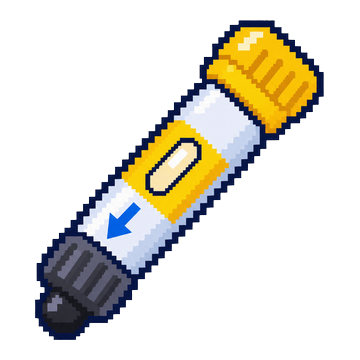
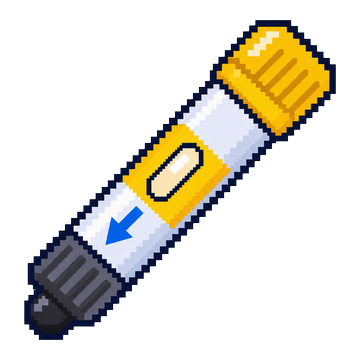
자가주사기 그림 다시 교체: 곧은 젝스트 형태 (v209)
Claude-Session: https://claude.ai/code/session_013gDdTYpfD9BZ2ma2UiLbLm

Changed region(s): [[0.0611, 0.0306, 0.9472, 0.9472], [0.3972, 0.6417, 0.4278, 0.6722], [0.3667, 0.6722, 0.3972, 0.7028]]

diff --git a/index.html b/index.html
@@ -17,13 +17,13 @@ if (/github\.io$/i.test(location.hostname)) location.replace('https://sense2026-
 <link rel="preconnect" href="https://fonts.googleapis.com">
 <link rel="preconnect" href="https://fonts.gstatic.com" crossorigin>
 <link rel="stylesheet" href="https://fonts.googleapis.com/css2?family=Jua&family=Gowun+Dodum&display=swap">
-<link rel="stylesheet" href="./css/style.css?v=v208-jext">
-<link rel="stylesheet" href="./css/lab.css?v=v208-jext">
-<link rel="stylesheet" href="./css/theme.css?v=v208-jext">
-<link rel="stylesheet" href="./css/teacher.css?v=v208-jext">
+<link rel="stylesheet" href="./css/style.css?v=v209-jext2">
+<link rel="stylesheet" href="./css/lab.css?v=v209-jext2">
+<link rel="stylesheet" href="./css/theme.css?v=v209-jext2">
+<link rel="stylesheet" href="./css/teacher.css?v=v209-jext2">
 <script>
 /* 11/12: 이 기기에 예전 화면 파일이 저장돼 있으면(버전이 다르면) 저장본을 지우고 한 번만 새로 열어요 */
-window.APP_V = 'v208-jext';
+window.APP_V = 'v209-jext2';
 window.addEventListener('load', function () {
   if (window.JS_V === window.APP_V) return;
   try { if (sessionStorage.getItem('appVfix') === window.APP_V) return; sessionStorage.setItem('appVfix', window.APP_V); } catch (e) { return; }
@@ -42,16 +42,16 @@ window.addEventListener('load', function () {
 
   <noscript>이 교육도구는 자바스크립트가 필요해요. 브라우저 설정을 확인해 주세요.</noscript>
 
-  <script src="./data/rules.js?v=v208-jext"></script>
-  <script src="./data/holidays.js?v=v208-jext"></script>
-  <script src="./data/lab-items.js?v=v208-jext"></script>
-  <script src="./js/qr.js?v=v208-jext"></script>
-  <script src="./js/sfx.js?v=v208-jext"></script>
-  <script src="./js/core.js?v=v208-jext"></script>
-  <script src="./js/card.js?v=v208-jext"></script>
-  <script src="./js/anim.js?v=v208-jext"></script>
-  <script src="./js/lab.js?v=v208-jext"></script>
-  <script src="./js/diary.js?v=v208-jext"></script>
-  <script src="./js/app.js?v=v208-jext"></script>
+  <script src="./data/rules.js?v=v209-jext2"></script>
+  <script src="./data/holidays.js?v=v209-jext2"></script>
+  <script src="./data/lab-items.js?v=v209-jext2"></script>
+  <script src="./js/qr.js?v=v209-jext2"></script>
+  <script src="./js/sfx.js?v=v209-jext2"></script>
+  <script src="./js/core.js?v=v209-jext2"></script>
+  <script src="./js/card.js?v=v209-jext2"></script>
+  <script src="./js/anim.js?v=v209-jext2"></script>
+  <script src="./js/lab.js?v=v209-jext2"></script>
+  <script src="./js/diary.js?v=v209-jext2"></script>
+  <script src="./js/app.js?v=v209-jext2"></script>
 </body>
 </html>

diff --git a/sw.js b/sw.js
@@ -2,7 +2,7 @@
    ※ 파일을 고쳐서 다시 올릴 때는 아래 VERSION 숫자를 하나 올려 주세요. (예: v1 → v2)
    ※ 11/12부터: 같은 버전 글자를 index.html(APP_V와 ?v=)과 js/core.js(JS_V)에도 똑같이 바꿔요.
    ※ 학생 기록은 여기 저장되지 않아요 (기록은 각 기기의 LocalStorage에만). */
-const VERSION = 'v208-jext';
+const VERSION = 'v209-jext2';
 const CACHE = 'allergy-shield-' + VERSION;
 const FILES = [
   './',

diff --git a/js/core.js b/js/core.js
@@ -1,5 +1,5 @@
 /* 화면 파일 버전 — index.html의 APP_V, sw.js의 VERSION과 늘 같게 (11/12: 예전 저장본 화면 막기) */
-window.JS_V = 'v208-jext';
+window.JS_V = 'v209-jext2';
 /* =========================================================
    core.js — 저장, 날짜, 챌린지 계산, 화면 이동, 팝업, 공통 도구
    ========================================================= */
